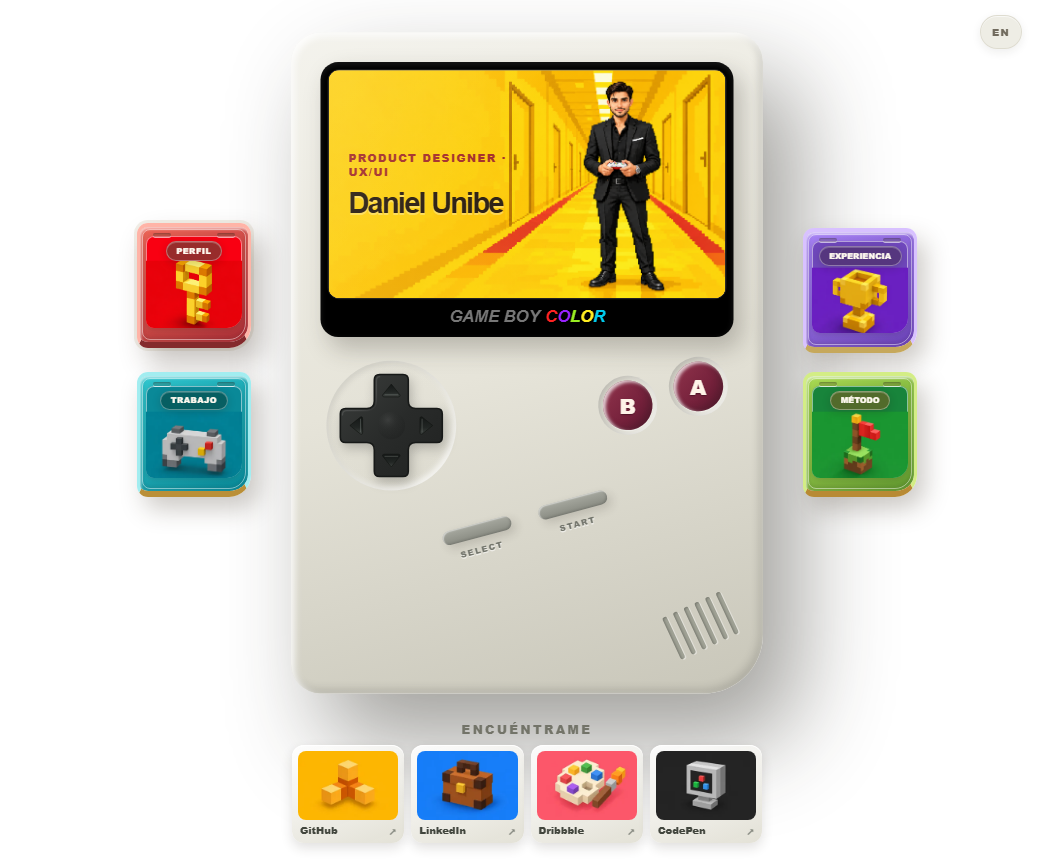
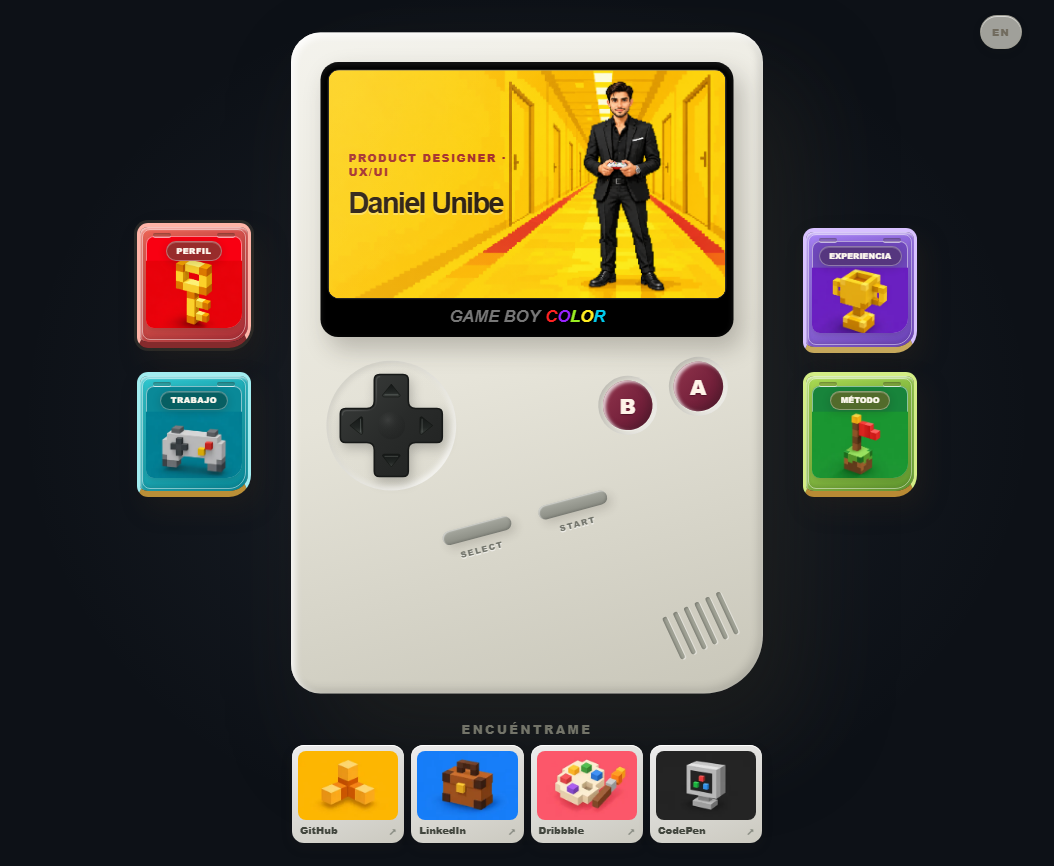
Match portfolio canvas to GitHub dark theme

diff --git a/style.css b/style.css
@@ -1,5 +1,7 @@
 /* --- VARIABLES --- */
 :root {
+    --github-canvas: #0d1117;
+    --page-glow: rgba(132, 148, 174, .12);
     --bone-light: #f4f3ed;
     --bone-base: #e6e4d9;
     --bone-dark: #c8c6b9;
@@ -23,10 +25,13 @@
 body {
     margin: 0; height: 100vh; width: 100vw;
     display: flex; justify-content: center; align-items: center;
-    background: transparent;
+    background-color: var(--github-canvas);
+    background-image: radial-gradient(ellipse at 50% 48%, var(--page-glow), transparent 68%);
+    background-attachment: fixed;
     font-family: 'Helvetica Neue', Arial, sans-serif;
     overflow: hidden;
     perspective: 1500px;
+    transition: background-color .45s ease, background-image .55s ease;
 }
 
 /* UI FLOTANTE */
@@ -271,7 +276,7 @@ body.interface-active #return-btn { opacity: 1; transform: translateY(0); pointe
 .visit-btn:hover { transform: scale(1.05); background: #333; }
 
 /* --- PORTAFOLIO INTERACTIVO: CUATRO MEMORIAS Y UNA LCD NAVEGABLE --- */
-html { min-width: 280px; min-height: 100%; }
+html { min-width: 280px; min-height: 100%; background-color: var(--github-canvas); }
 body { width: 100%; height: 100vh; height: 100svh; overflow: hidden; }
 .world-container {
     grid-template-columns: minmax(0, 1fr);
@@ -518,10 +523,10 @@ body { width: 100%; height: 100vh; height: 100svh; overflow: hidden; }
 .screen-links { display: flex; flex-wrap: wrap; gap: 7px; margin-top: 11px; }
 .screen-link { display: inline-flex; align-items: center; gap: 6px; padding: 7px 10px; border-radius: 8px; background: var(--screen-accent); color: #fff; font-size: clamp(9px, 2cqw, 11px); font-weight: 850; transition: transform .16s ease, filter .16s ease; }
 .screen-text-action { padding: 0; background: transparent; color: var(--screen-accent); font-size: inherit; font-weight: 900; letter-spacing: inherit; text-transform: uppercase; white-space: nowrap; }
-#project-viewport[data-theme="profile"] { --screen-accent: #9b7750; }
-#project-viewport[data-theme="work"] { --screen-accent: #138a78; }
-#project-viewport[data-theme="experience"] { --screen-accent: #8065a0; }
-#project-viewport[data-theme="method"] { --screen-accent: #71844d; }
+#project-viewport[data-theme="profile"] { --screen-accent: #bd3d36; }
+#project-viewport[data-theme="work"] { --screen-accent: #087f8b; }
+#project-viewport[data-theme="experience"] { --screen-accent: #7048bd; }
+#project-viewport[data-theme="method"] { --screen-accent: #4f812f; }
 .screen-shell :focus-visible, .screen-link:focus-visible, .screen-action:focus-visible, .screen-text-action:focus-visible, .screen-back:focus-visible {
     outline: 2px solid var(--screen-accent);
     outline-offset: 3px;
@@ -1058,14 +1063,20 @@ body.interface-active #return-btn { transform: translateY(0); }
 .cart-lime { --sticker-label-bg: #526b2b; --sticker-matte: #18843b; }
 
 /* Cada cartucho lleva el tono mate de su carcasa a la pantalla al abrirse. */
-#project-viewport[data-theme="profile"] { --screen-surface: #f2e1dc; --screen-surface-light: #fbf0ec; }
-#project-viewport[data-theme="work"] { --screen-surface: #deeee9; --screen-surface-light: #eff7f3; }
-#project-viewport[data-theme="experience"] { --screen-surface: #e9e3ef; --screen-surface-light: #f4eff7; }
-#project-viewport[data-theme="method"] { --screen-surface: #e8ecd9; --screen-surface-light: #f3f5e8; }
+#project-viewport[data-theme="profile"] { --screen-accent: #bd3d36; --screen-surface: #f8e5e1; --screen-surface-light: #fff5f1; }
+#project-viewport[data-theme="work"] { --screen-accent: #087f8b; --screen-surface: #dcf1f0; --screen-surface-light: #eef9f8; }
+#project-viewport[data-theme="experience"] { --screen-accent: #7048bd; --screen-surface: #e8e0f4; --screen-surface-light: #f4effa; }
+#project-viewport[data-theme="method"] { --screen-accent: #4f812f; --screen-surface: #e7f0dc; --screen-surface-light: #f3f8ed; }
 .screen-menu,
 .screen-detail { background: linear-gradient(145deg, var(--screen-surface-light), var(--screen-surface)); }
 .screen-menu::before,
 .screen-detail::before { display: none; }
+
+/* El exterior se funde con GitHub y toma un brillo mate del cartucho insertado. */
+body[data-theme="profile"] { --page-glow: rgba(237, 101, 86, .26); }
+body[data-theme="work"] { --page-glow: rgba(10, 137, 152, .28); }
+body[data-theme="experience"] { --page-glow: rgba(112, 72, 189, .27); }
+body[data-theme="method"] { --page-glow: rgba(24, 132, 59, .25); }
 
 /* Los botones A/B tienen volumen de goma con sombras hacia dentro, sin proyectarlas en la carcasa. */
 .action-btn {

diff --git a/script.js b/script.js
@@ -25,10 +25,10 @@ const puckSticker = document.getElementById('activeStickerVisual');
 const prefersReducedMotion = window.matchMedia('(prefers-reduced-motion: reduce)');
 
 const themeColors = {
-    profile: { accent: '#bf3e36', ink: '#3a1d1c', paper: '#fff0e6' },
-    work: { accent: '#138a78', ink: '#153a36', paper: '#e9f5ee' },
-    experience: { accent: '#8065a0', ink: '#30283d', paper: '#f0eaf5' },
-    method: { accent: '#71844d', ink: '#313a2b', paper: '#eef0df' }
+    profile: { accent: '#bd3d36', ink: '#3a1d1c', paper: '#fff0e6' },
+    work: { accent: '#087f8b', ink: '#153a36', paper: '#e7f7f5' },
+    experience: { accent: '#7048bd', ink: '#30283d', paper: '#f0eaf8' },
+    method: { accent: '#4f812f', ink: '#313a2b', paper: '#eef5e4' }
 };
 
 let isInserted = false;
@@ -434,6 +434,7 @@ function triggerInsertion(id) {
 
     playInsert();
     isInserted = true;
+    document.body.dataset.theme = cartridge.theme;
     currentCartId = cartridge.id;
     selectedCartId = cartridge.id;
     screenState = { view: 'menu', itemIndex: 0, detailMode: 'summary' };
@@ -568,6 +569,7 @@ async function triggerEjection() {
     // desde la ranura mientras la consola recupera su tamaño de portada.
     viewport.classList.remove('active');
     document.body.classList.remove('interface-active');
+    delete document.body.dataset.theme;
     isInserted = false;
     currentCartId = null;
     screenState = { view: 'home', itemIndex: 0, detailMode: 'summary' };

diff --git a/index.html b/index.html
@@ -3,7 +3,7 @@
 <head>
     <meta charset="UTF-8">
     <meta name="viewport" content="width=device-width, initial-scale=1.0">
-    <meta name="theme-color" content="#e6e4d9">
+    <meta name="theme-color" content="#0d1117">
     <meta name="description" content="Portafolio interactivo de Daniel Unibe: diseño de producto, proyectos, experiencia y método de trabajo.">
     <title>Daniel Unibe — Product Designer</title>
     <link rel="stylesheet" href="style.css">
